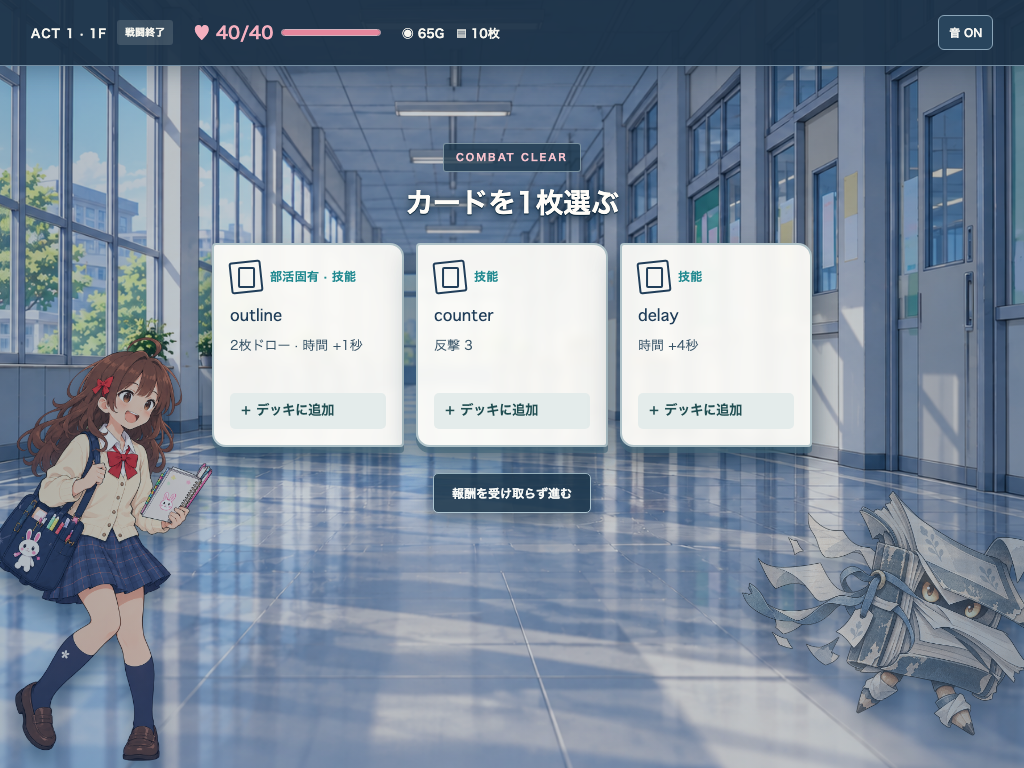
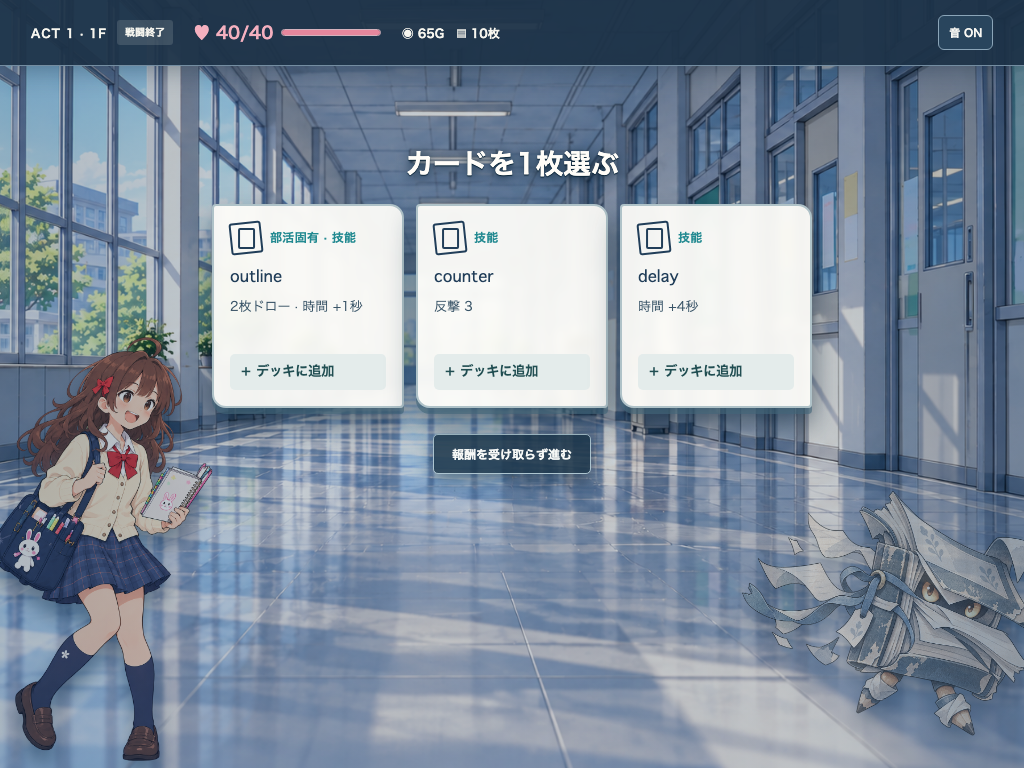
fix: 報酬見出しの重複表示を除く

Changed region(s): [[0.1875, 0.1875, 0.8125, 0.6875]]

diff --git a/src/ui/run-view.ts b/src/ui/run-view.ts
@@ -137,7 +137,7 @@ export function renderRunReward(root: HTMLElement, session: RunSession, content:
     <div class="reward-scene-actors" aria-hidden="true"><img class="reward-scene-hero" src="${html(hero)}" alt="" decoding="async" />${enemy ? `<img class="reward-scene-enemy" src="${html(enemy)}" alt="" decoding="async" />` : ""}</div>
     <div class="reward-scene-shade" aria-hidden="true"></div>
     <header class="run-header reward-scene-header" aria-label="報酬を選ぶ時のラン情報"><span class="reward-scene-location">ACT ${run.act} · ${node?.floor ?? 0}F <span>戦闘終了</span></span><span class="reward-scene-health"><strong>♥ ${run.player.hp}/${run.player.maxHp}</strong><span class="reward-scene-health-track" role="meter" aria-label="プレイヤーのHP" aria-valuemin="0" aria-valuemax="${run.player.maxHp}" aria-valuenow="${run.player.hp}"><span style="width:${hpRatio}%"></span></span></span><span class="reward-scene-resources"><span>◉ ${run.gold}G</span><span>▤ ${run.deck.length}枚</span></span></header>
-    <section class="reward-panel reward-scene-overlay" aria-label="カード報酬の選択"><span class="eyebrow">COMBAT CLEAR</span><h2>カードを1枚選ぶ</h2><div class="reward-options">${cards}</div><button type="button" class="skip-reward" data-action="skip-reward">報酬を受け取らず進む</button></section>
+    <section class="reward-panel reward-scene-overlay" aria-label="カード報酬の選択"><h2>カードを1枚選ぶ</h2><div class="reward-options">${cards}</div><button type="button" class="skip-reward" data-action="skip-reward">報酬を受け取らず進む</button></section>
   </main>`;
 }
 

diff --git a/src/ui/reward-scene.css b/src/ui/reward-scene.css
@@ -20,7 +20,6 @@
 .reward-scene-resources { display: flex; gap: 12px; font-size: 12px; font-weight: 800; }
 .reward-scene-header .audio-toggle { margin-left: auto; }
 .reward-scene-overlay { z-index: 3; width: min(720px, calc(100% - 40px)); margin: clamp(42px, 10vh, 104px) auto 40px; padding: 0; border: 0; border-radius: 0; background: transparent; box-shadow: none; }
-.reward-scene-overlay .eyebrow { display: inline-block; padding: 6px 12px; border: 1px solid #a9bdc8a0; border-radius: 3px; background: #1b3549bf; color: #f6c3cd; }
 .reward-scene-overlay h2 { margin: 10px 0 18px; color: #fffdf8; font-size: clamp(24px, 2.7vw, 33px); text-shadow: 0 2px 12px #0d2739, 0 1px 1px #0d2739; }
 .reward-scene-overlay .reward-options { max-width: 660px; grid-template-columns: repeat(3, minmax(0, 1fr)); gap: 12px; margin-top: 20px; }
 .reward-scene-overlay .reward-card { min-height: 204px; border: 2px solid #afc2c8; border-radius: 4px 14px 4px 14px; background: #fffefaee; box-shadow: 0 6px 0 #43677a9c, 0 16px 28px #0d273b99; backdrop-filter: blur(5px); }
